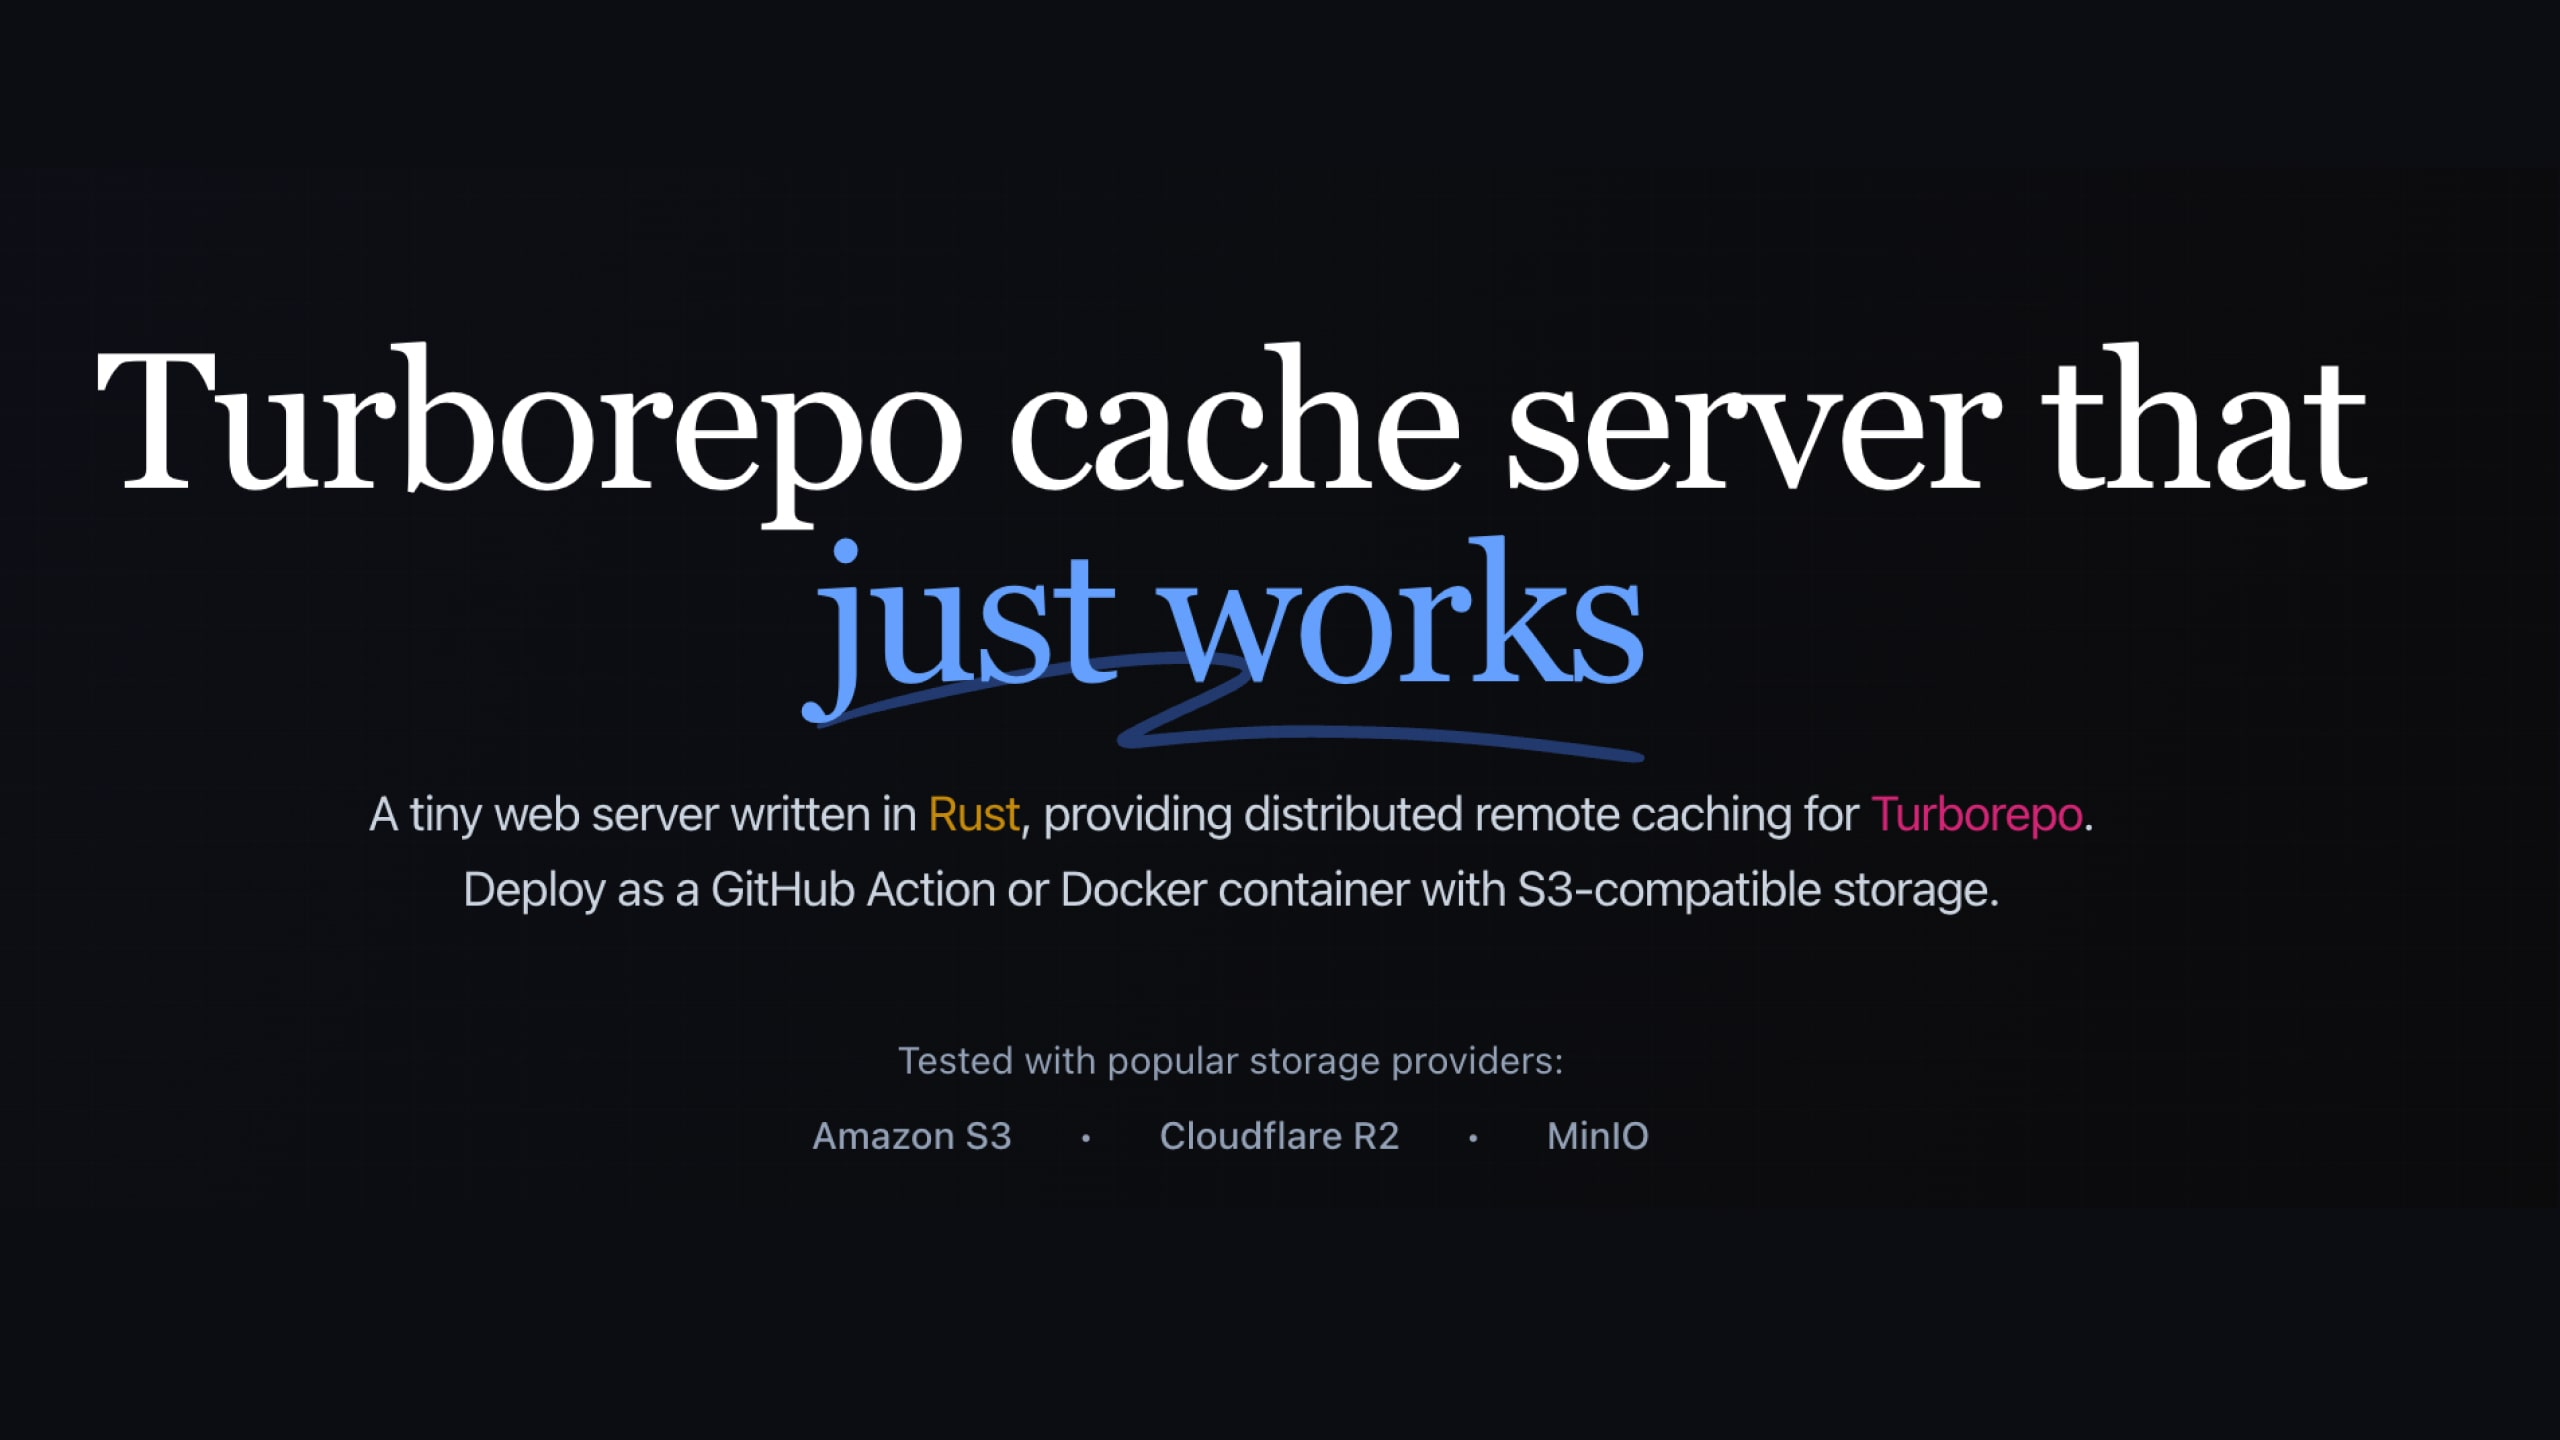
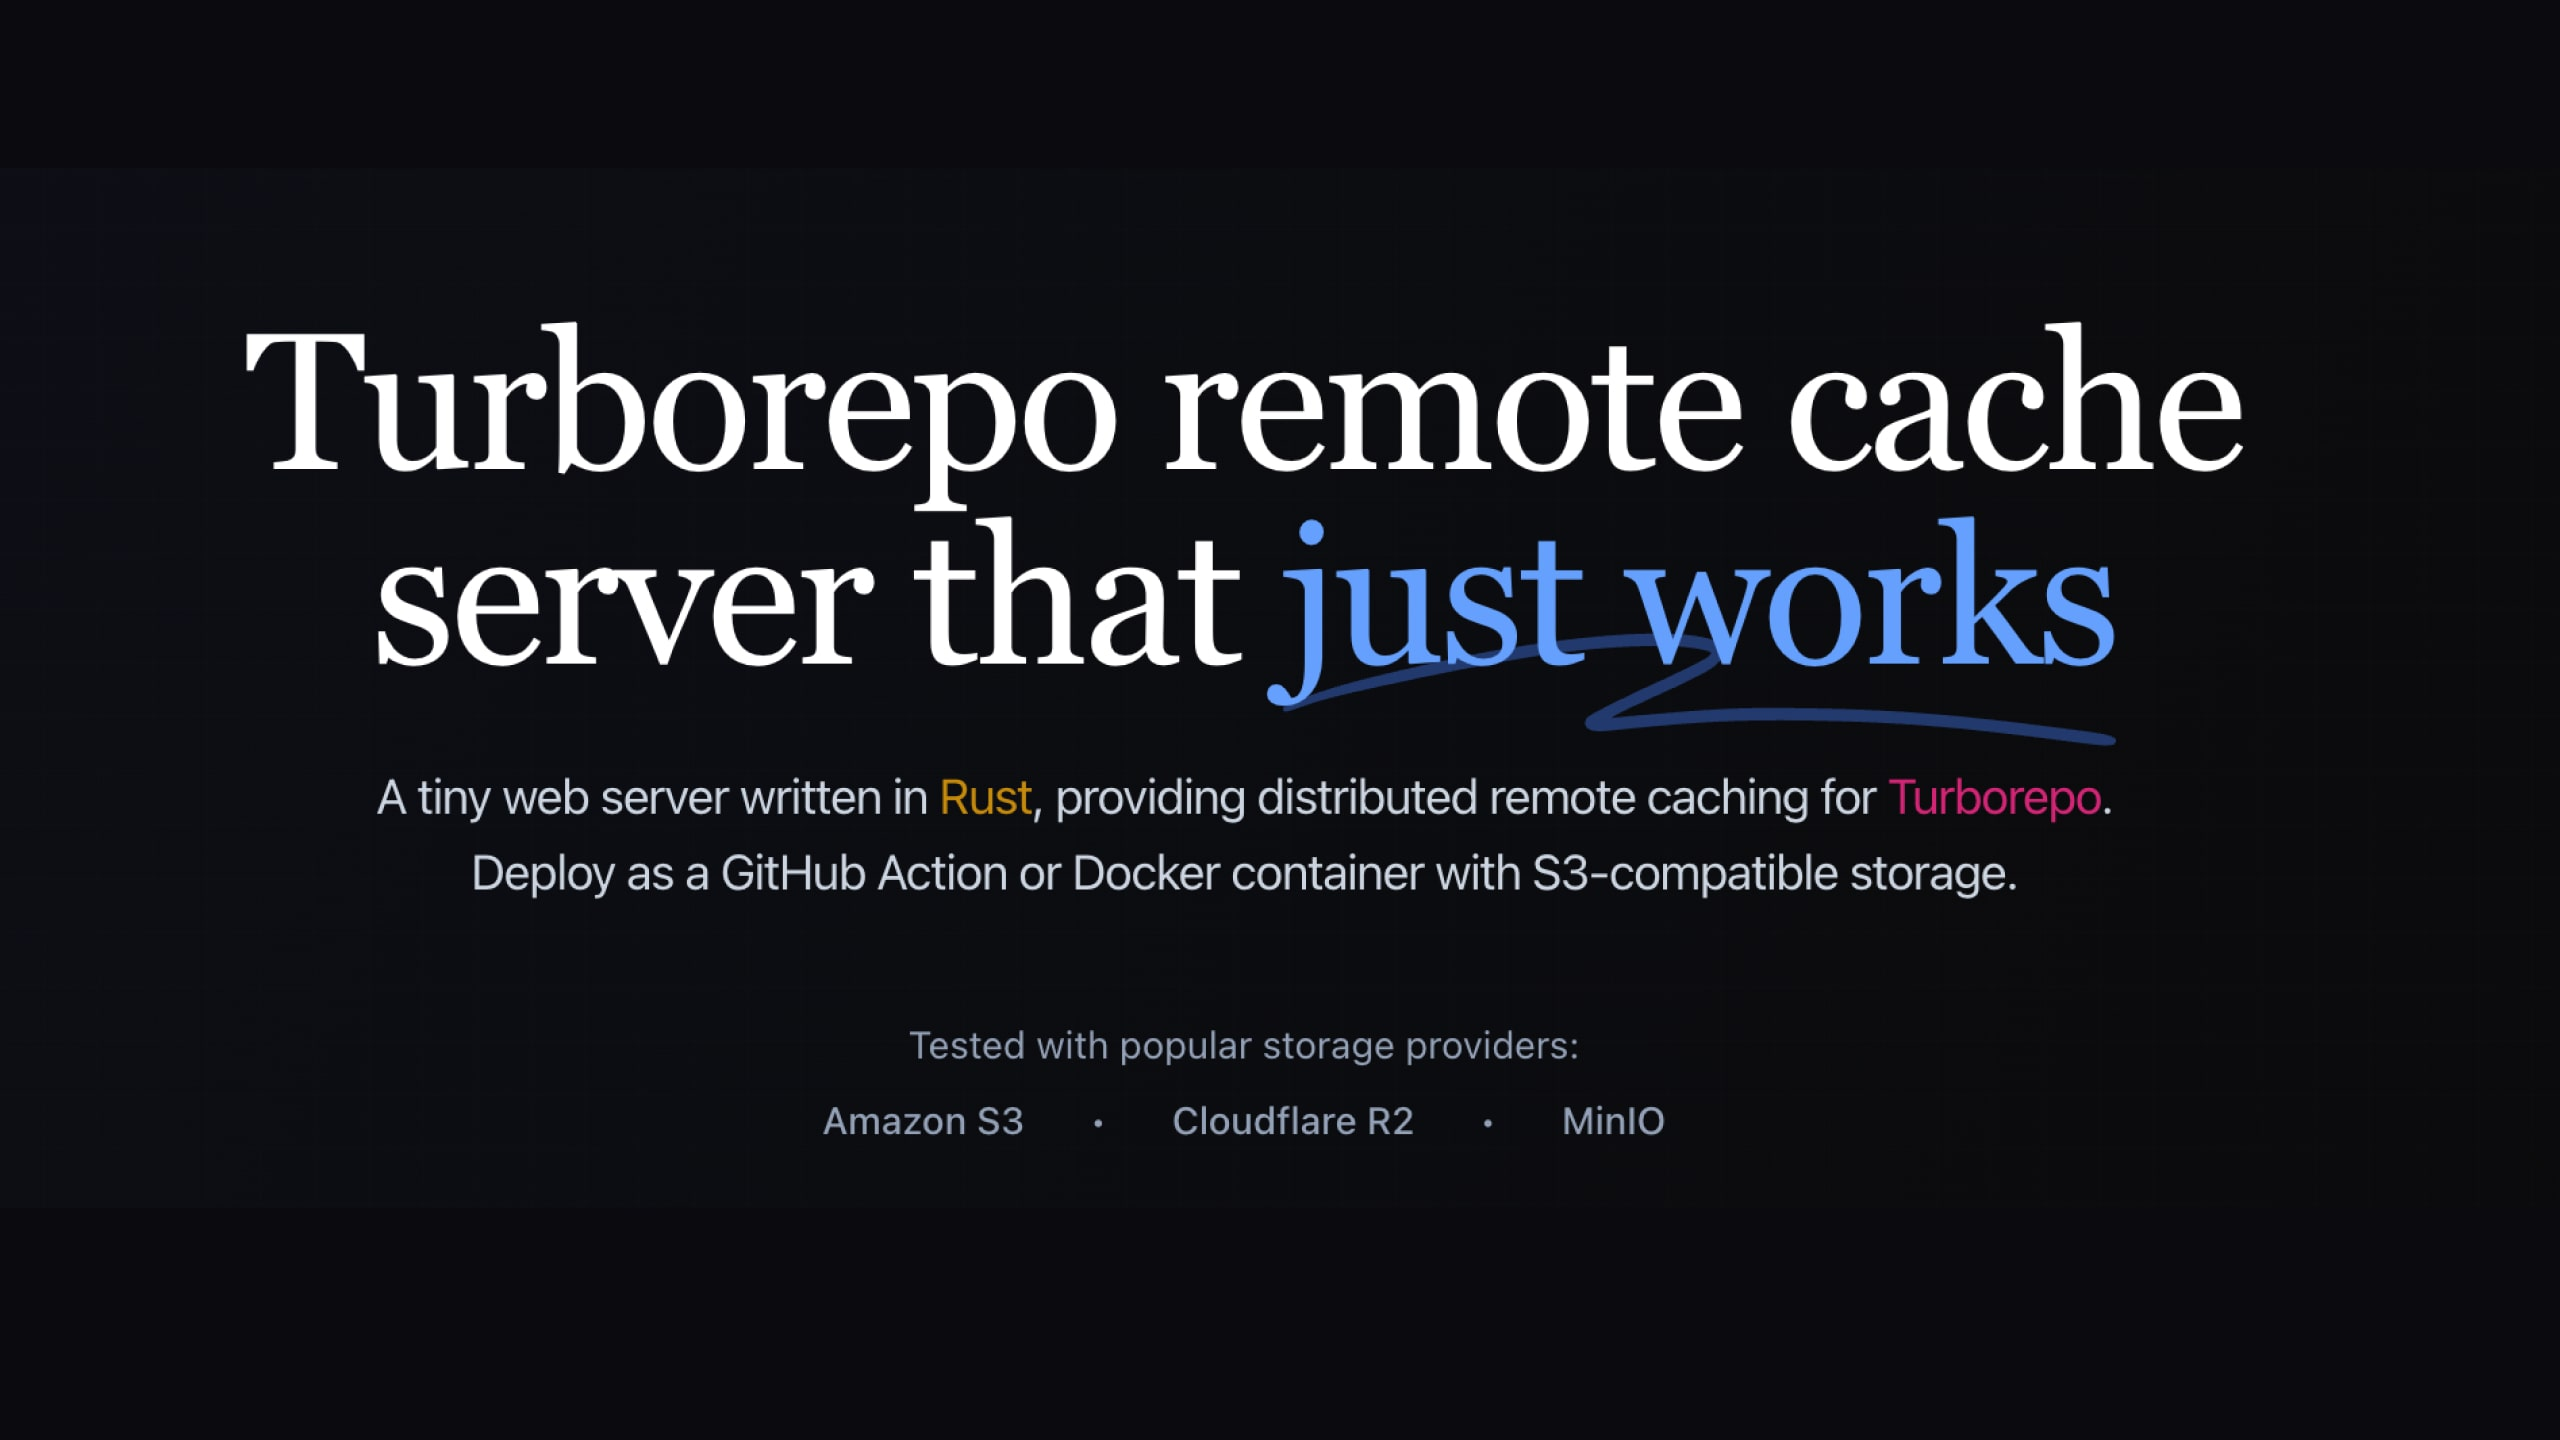
docs-site: Improve open graph

Changed region(s): [[0.0312, 0.2188, 0.9375, 0.6562], [0.3125, 0.7188, 0.6562, 0.8125]]

diff --git a/site/src/app/HomePage.tsx b/site/src/app/HomePage.tsx
@@ -13,7 +13,7 @@ const HomePage: React.FC = () => {
                     <div className='pt-20 pb-16 text-center lg:pt-32'>
                         {/* Main Heading */}
                         <h1 className='font-display mx-auto max-w-4xl text-5xl font-medium tracking-tight text-slate-900 sm:text-7xl dark:text-white'>
-                            Turborepo cache server that{' '}
+                            Turborepo remote cache server that{' '}
                             <span className='relative whitespace-nowrap text-blue-600 dark:text-blue-400'>
                                 <svg
                                     aria-hidden='true'
